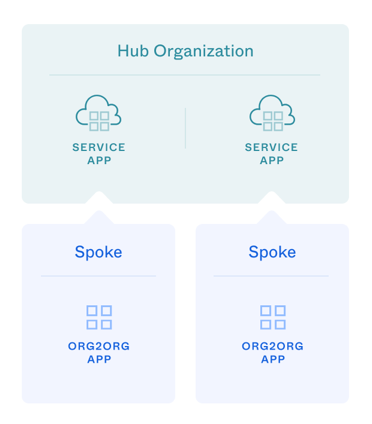
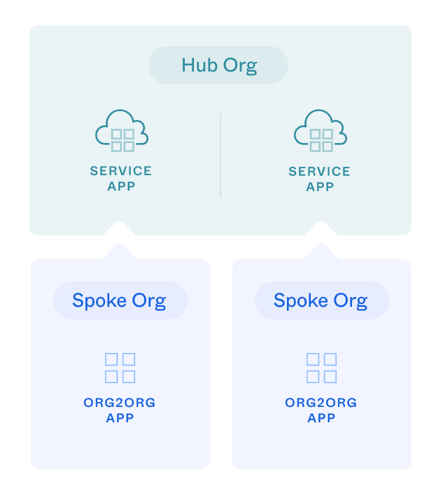
updated multi-org-provisioning image and add Tim Howie's feedback

diff --git a/packages/@okta/vuepress-site/docs/guides/secure-oauth-between-orgs/main/index.md b/packages/@okta/vuepress-site/docs/guides/secure-oauth-between-orgs/main/index.md
@@ -13,7 +13,7 @@ This guide explains how to securely set up Okta hub and spoke orgs to synchroniz
 
 **Learning outcomes**
 
-* Set up a multi-tenant hub and spoke Okta org configuration for provisioning by using the OAuth 2.0 client credential grant flow
+* Set up a multi-tenant hub and spoke Okta org provisioning configuration to use the OAuth 2.0 client credential grant flow.
 * Configure hub Okta org with service apps for each spoke Okta org.
 * Configure Org2Org app on each spoke Okta org.
 * Configure and activate Org2Org provisioning on spoke Okta orgs.
@@ -31,18 +31,18 @@ To secure API connections between orgs for a [multi-tenant solution](/docs/conce
 
 ![Displays the service apps required in the hub org and the Org2Org apps required in the spoke org.](/img/multi-tenancy/multi-org-provisioning.png "OAuth 2.0 connection configuration for hub and spoke org model")
 
-In this OAuth 2.0 flow, the hub org acts as the resource server as well as the [authorization server](/docs/concepts/auth-servers/).  Each spoke org is represented by a [service app in the hub org for the OAuth 2.0 client credentials flow](/docs/guides/implement-oauth-for-okta-serviceapp/main/). At the spoke org level, you need to create an Org2Org app to represent the OAuth 2.0 client. The Okta Org2Org app automatically generates a JSON Web Key Set (JWKS)  used by the client to authenticate with the authorization server. For each Org2Org app, you need to extract the JWKS public key for each corresponding service app in the hub org. To limit access to the OAuth 2.0 clients, you need to grant the hub org service app with allowed [OAuth 2.0 scopes](/docs/guides/implement-oauth-for-okta/main/#scopes-and-supported-endpoints).
+In this OAuth 2.0 flow, the hub org acts as the resource server as well as the [authorization server](/docs/concepts/auth-servers/). Each spoke org is represented by a [service app in the hub org for the OAuth 2.0 client credentials flow](/docs/guides/implement-oauth-for-okta-serviceapp/main/). At the spoke org level, you need to create an Org2Org app to represent the OAuth 2.0 client. The Okta Org2Org app automatically generates a JSON Web Key Set (JWKS) used by the client to authenticate with the authorization server. For each Org2Org app, you need to extract the JWKS public key for each corresponding service app in the hub org. To limit access to the OAuth 2.0 clients, you need to grant the hub org service app with allowed [OAuth 2.0 scopes](/docs/guides/implement-oauth-for-okta/main/#scopes-and-supported-endpoints).
 
 After the Org2Org OAuth 2.0 connection is configured, you can start to test your connection and push user data from the spoke orgs to the hub org. You can also create a [rotate keys](#key-rotation) schedule to update your credentials on a regular basis.
 
-> **Note**: For a hub and spoke org model provisioning using API tokens instead of OAuth 2.0, see [Integrate Okta Org2Org with Okta ](https://help.okta.com/okta_help.htm?id=ext-org2org-intg).
+> **Note**: For provisioning in a hub and spoke org model that uses API tokens instead of OAuth 2.0, see [Integrate Okta Org2Org with Okta ](https://help.okta.com/okta_help.htm?type=oie&id=ext-org2org-intg).
 
 ## Hub and spoke connection configuration with OAuth 2.0
 
 You can use OAuth 2.0 to push user and group information from a spoke org to a centralized hub org by performing the following configuration:
 
 1. In each spoke org, [add an instance of the Org2Org app integration](#add-an-org2org-app-integration-in-a-spoke-org).
-2. In the hub org, [create an OAuth 2.0 service app](#create-an-oauth-2-0-service-app-in-the-hub-org) with `private_key_jwt` authentication method and JWKS public key of each Org2Org app in the spoke orgs. Grant [allowed scopes](#request-examples) to the hub org service app (the OAuth 2.0 client).
+2. In the hub org, [create an OAuth 2.0 service app](#create-an-oauth-2-0-service-app-in-the-hub-org) with the `private_key_jwt` authentication method and the JWKS public key of each Org2Org app in the spoke orgs. Grant [allowed scopes](#request-examples) to the hub org service app (the OAuth 2.0 client).
 3. [Set and activate provisioning in the Org2Org apps](#enable-provisioning-in-the-org2org-app) from the Okta API.
 4. [Assign users and groups to be pushed to the hub org](#assign-users-and-groups-in-the-org2org-app).
 
@@ -56,7 +56,7 @@ As an Okta admin, make a `POST /api/v1/apps` request to the spoke org with [Okta
 | --------- |  ------------- |
 | `name`  |  `okta_org2org` |
 | `label`  |  Specify a label for this Org2Org app integration. |
-| `baseUrl`  |  Specify your hub org base URL. |
+| `baseUrl`  |  Specify the base URL of your hub org. |
 | `signOnMode`  |  You can set this parameter to any valid value, but if you specify `SAML_2_0`, the Org2Org app signing certificate appears in the Admin Console. |
 
 ##### Request example
@@ -111,7 +111,7 @@ curl -v -X GET \
 
 > **Note**: The keys are truncated for brevity.
 
-Save the returned key credentials for use in the hub org service app configuration.
+Save the returned key credentials for use in the service app configuration for the hub org.
 
 For each spoke org that you have in your multi-tenant solution, you must create an Org2Org app instance and generate the key credentials that need to be configured in the hub org’s service app.
 
@@ -224,7 +224,7 @@ In each spoke org, assign the users and groups to the Org2Org app integration by
 * [`POST /api/v1/apps/${yourOrg2OrgAppId}/users` (assign user to an application for SSO and provisioning)](/docs/reference/api/apps/#assign-user-to-application-for-sso-and-provisioning)
 * [`POST /api/v1/apps/${yourOrg2OrgAppId}/groups/${groupId}` (assign group to an application)](/docs/reference/api/apps/#assign-group-to-application)
 
-Alternatively, you can assign users and groups for provisioning using the Okta Admin Console. See [ Assign an app integration to a user](https://help.okta.com/oie/en-us/Content/Topics/Provisioning/lcm/lcm-assign-app-user.htm) and [Assign an app integration to a group](https://help.okta.com/oie/en-us/Content/Topics/Provisioning/lcm/lcm-assign-app-groups.htm).
+Alternatively, you can assign users and groups for provisioning using the Okta Admin Console. See [Assign an app integration to a user](https://help.okta.com/okta_help.htm?type=oie&id=ext-lcm-assign-app-user) and [Assign an app integration to a group](https://help.okta.com/okta_help.htm?type=oie&id=ext-lcm-assign-app-groups).
 
 ## Key rotation
 
